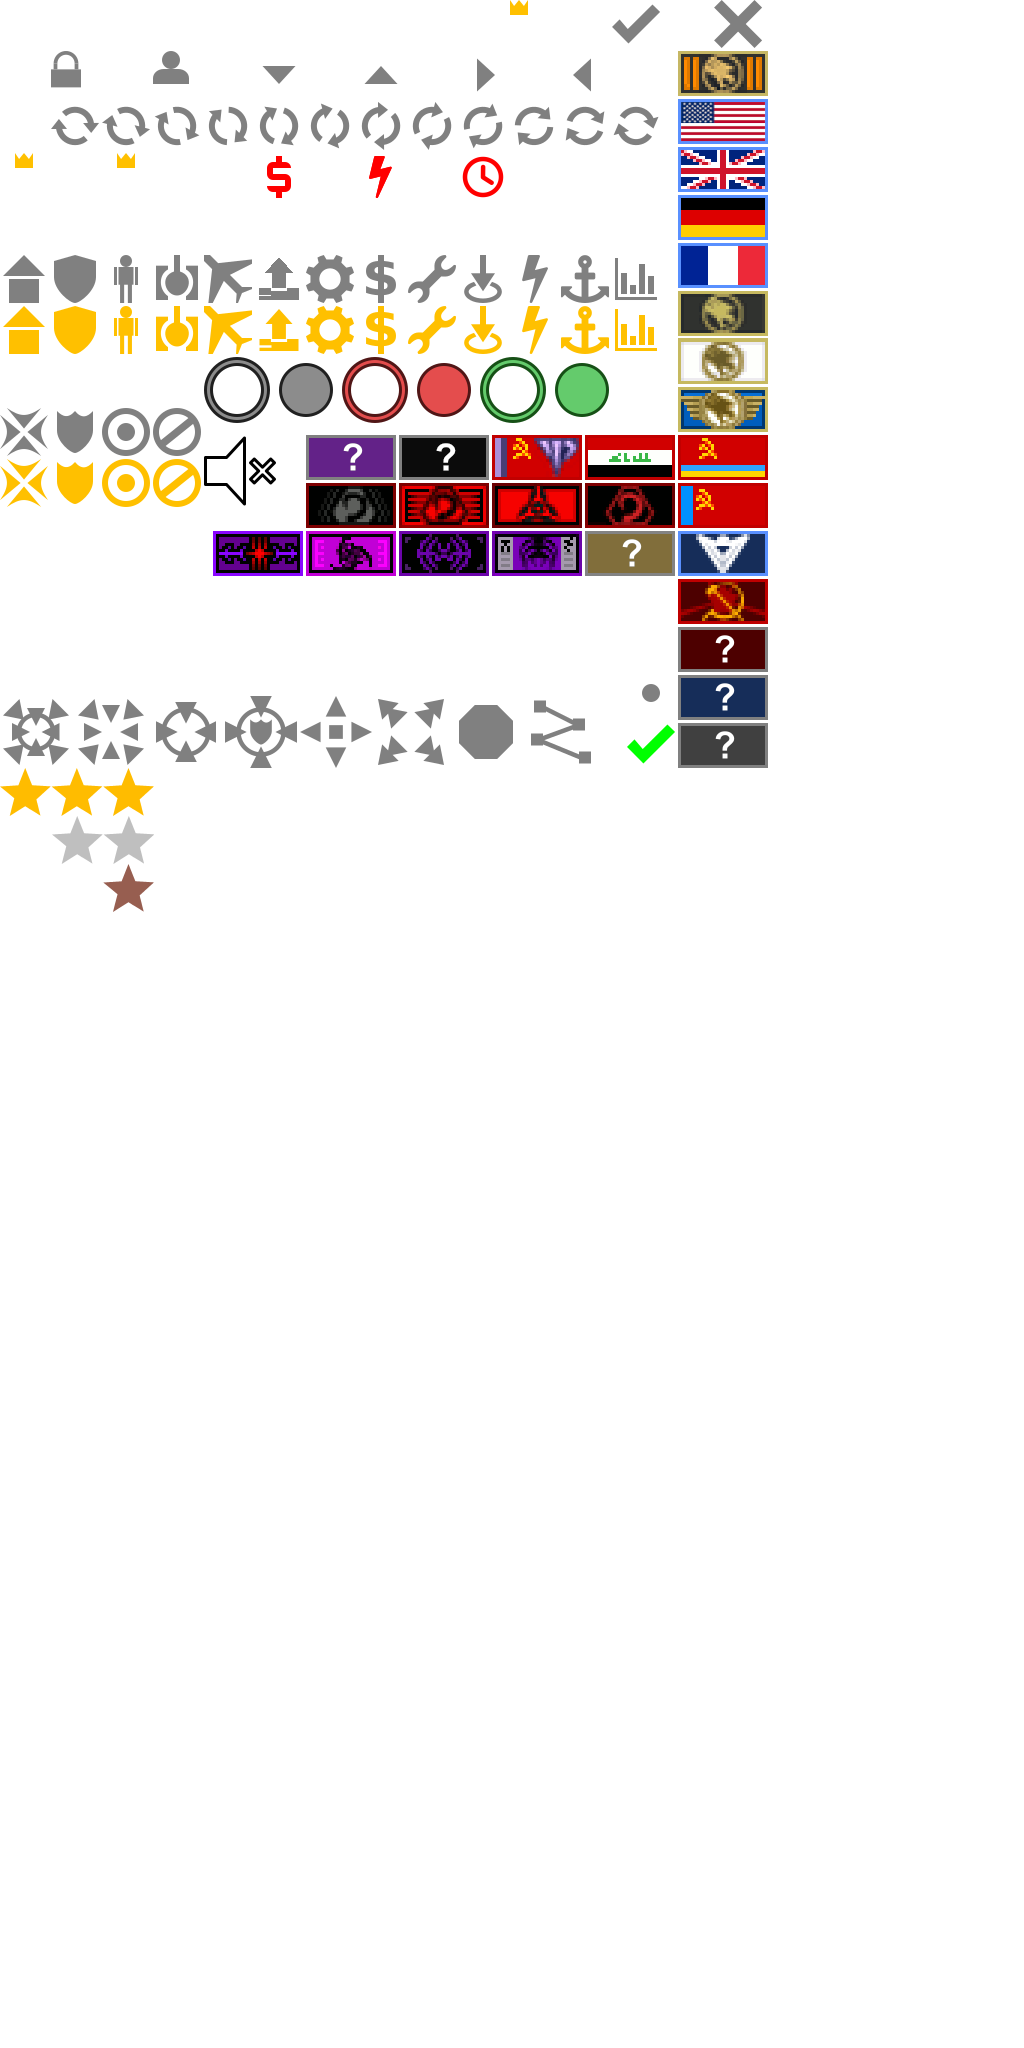
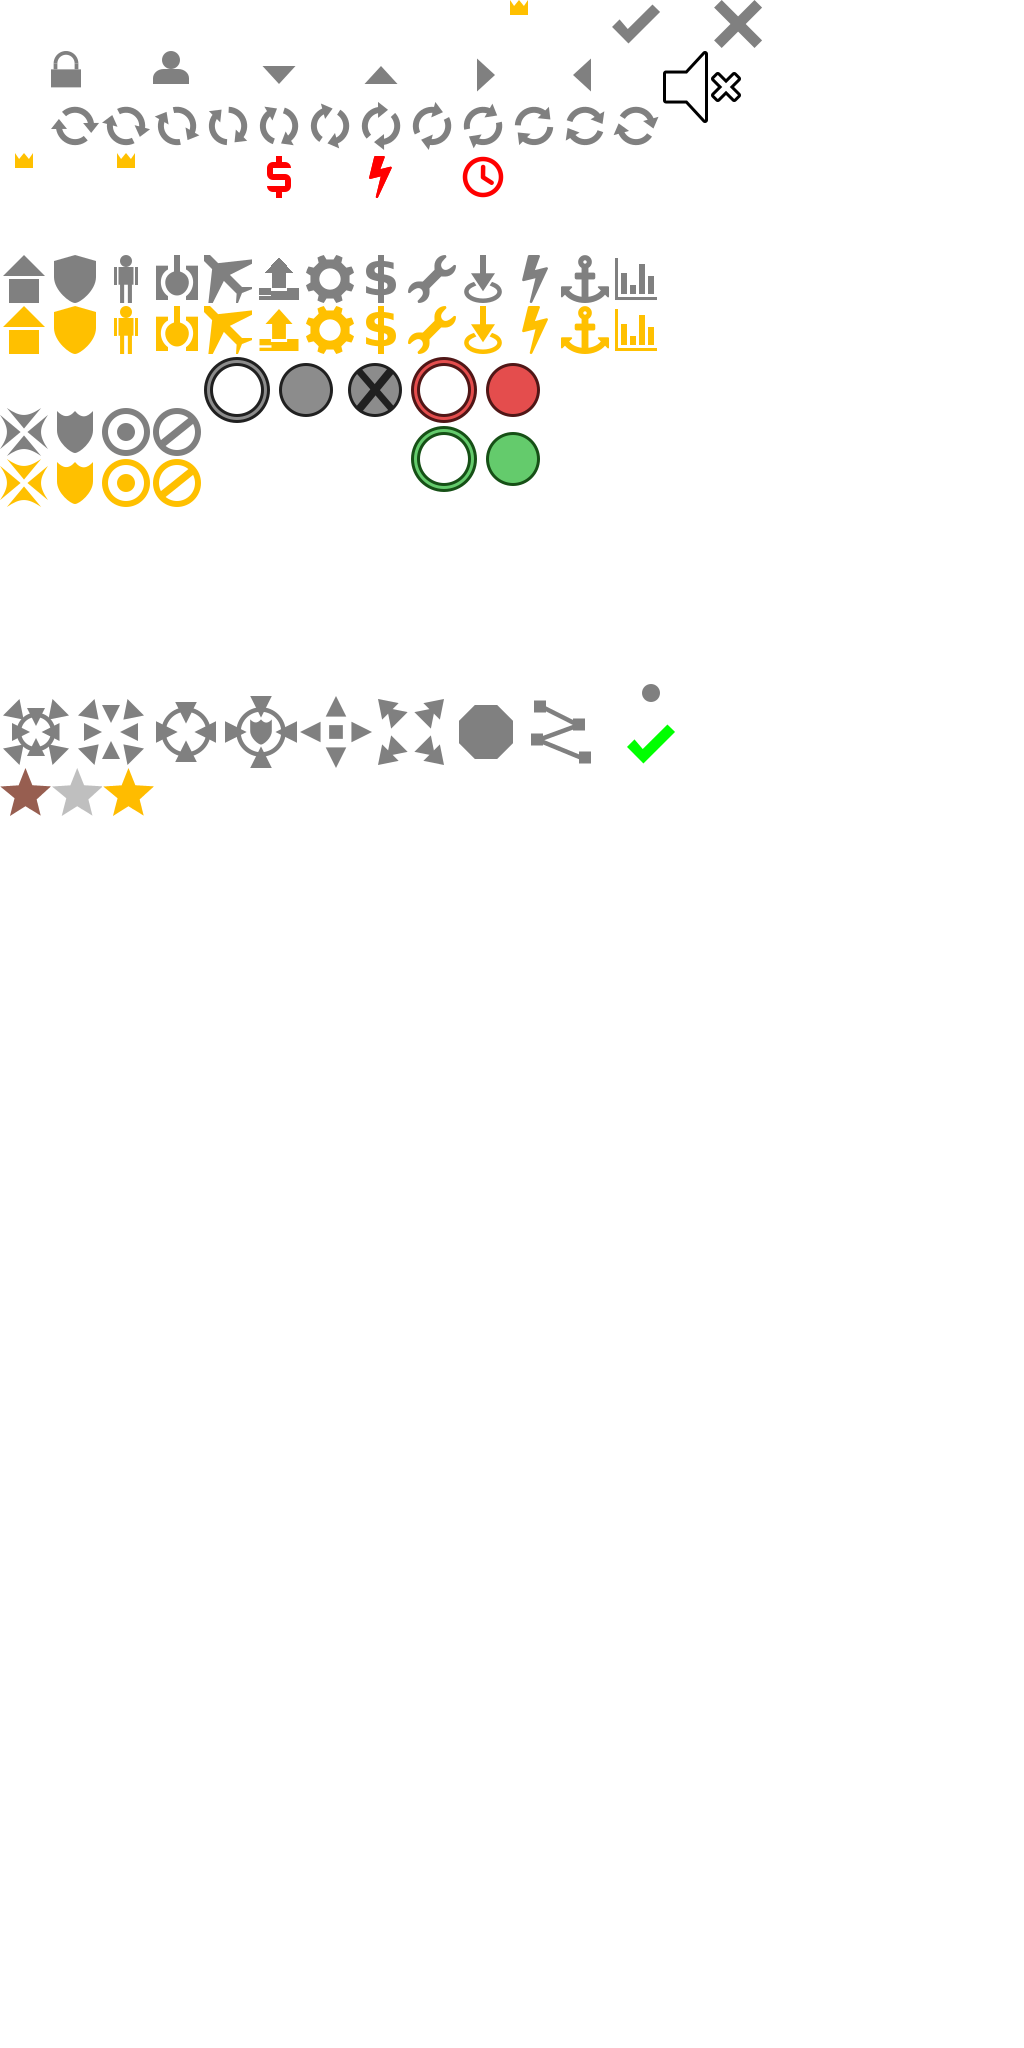
- Rebel bonus no longer allows defenses to be built while MCV is mobile. - Move flags into their own file. - Update glyphs to match engine. - Initial UI support for additional campaign difficulties.

Changed region(s): [[0.1875, 0.0, 0.75, 0.375], [0.0, 0.375, 0.1562, 0.4375]]

diff --git a/OpenRA.Mods.CA/Widgets/Logic/MissionBrowserLogicCA.cs b/OpenRA.Mods.CA/Widgets/Logic/MissionBrowserLogicCA.cs
@@ -265,14 +265,36 @@ namespace OpenRA.Mods.Common.Widgets.Logic
 					var difficulty = missionProgress.Difficulty;
 					if (difficulty != null)
 					{
-						var stars = item.Get<ImageWidget>("COMPLETION_DIFFICULTY");
-						stars.IsVisible = () => true;
-						stars.GetImageName = () => difficulty;
+						var firstStar = item.Get<ImageWidget>("COMPLETION_STAR");
+						firstStar.IsVisible = () => true;
+						firstStar.GetImageName = () =>
+						{
+							return difficulty switch
+							{
+								"easy" => "bronze",
+								"normal" => "silver",
+								_ => "gold"
+							};
+						};
+
+						if (difficulty == "vhard" || difficulty == "brutal")
+						{
+							var secondStar = firstStar.Clone();
+							secondStar.Bounds.X -= firstStar.Bounds.Width;
+							item.AddChild(secondStar);
+						}
+
+						if (difficulty == "brutal")
+						{
+							var thirdStar = firstStar.Clone();
+							thirdStar.Bounds.X -= 2 * firstStar.Bounds.Width;
+							item.AddChild(thirdStar);
+						}
 					}
 
 					var dateCompleted = missionProgress.DateCompleted.ToString("d");
 					var completionTime = missionProgress.Time;
-					var difficultyCompleted = missionProgress.Difficulty != null ? char.ToUpper(missionProgress.Difficulty[0]) + missionProgress.Difficulty.Substring(1) : null;
+					var difficultyCompleted = difficulty != null ? FluentProvider.GetMessage($"options-difficulty.{difficulty}") : null;
 
 					var details = $"• Date: {dateCompleted}\n• Version: {missionProgress.Version}\n• Duration: {completionTime}\n• Speed: {missionProgress.Speed}";
 
